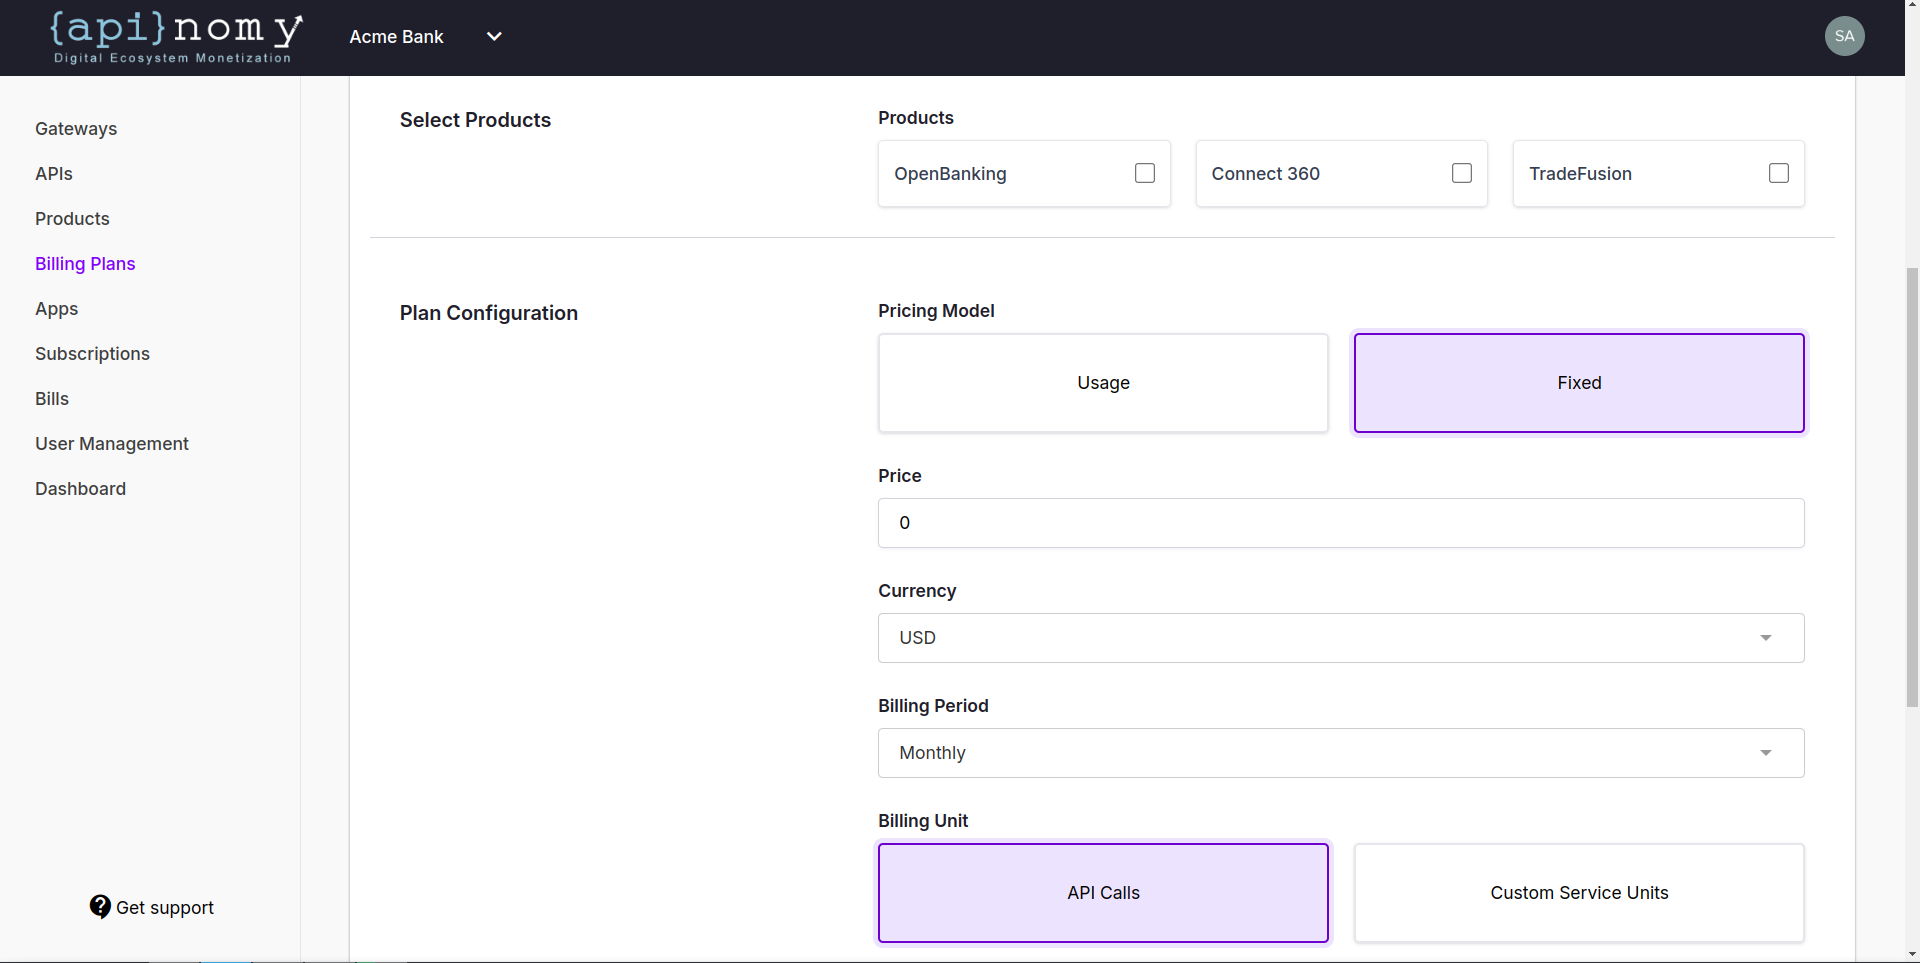
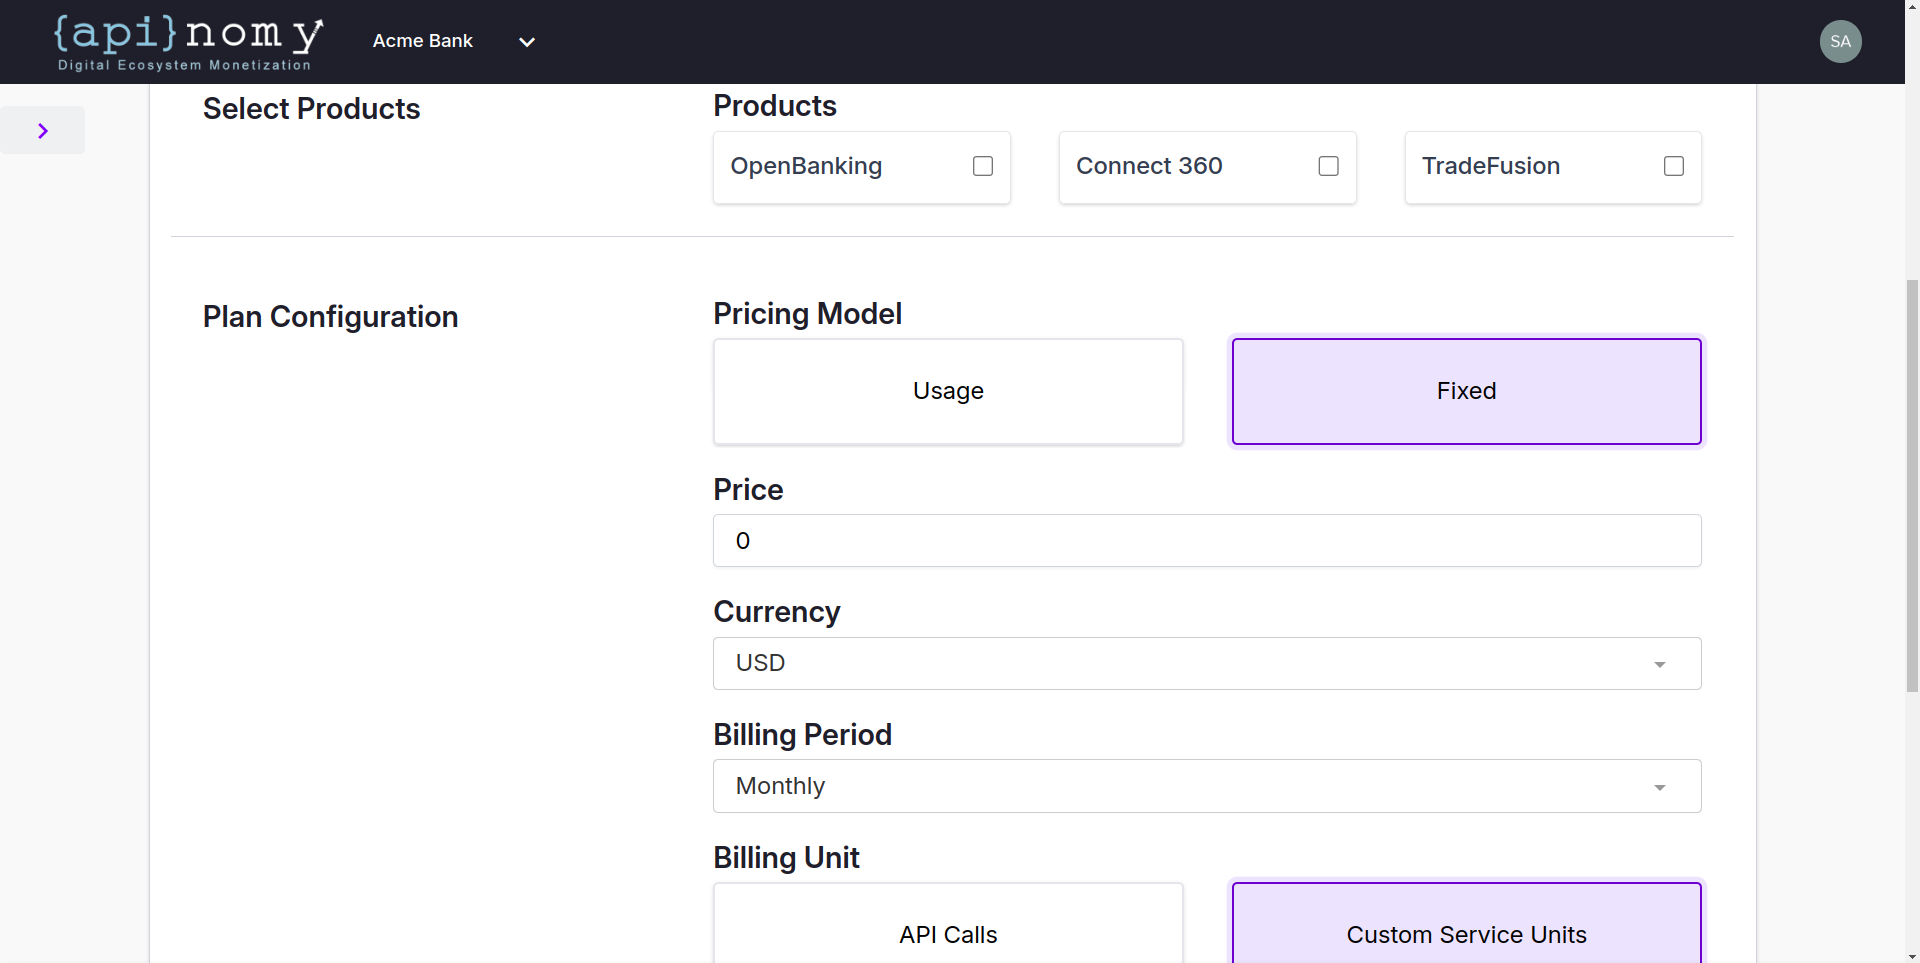
image & menu updated

diff --git a/_layouts/default.html b/_layouts/default.html
@@ -34,7 +34,7 @@
               src="{{ site.baseurl }}/images/apinomy-logo.png"
               alt="Hydra Logo"
               width="95"
-              height="56"
+              height="46"
           /></a>
         </div>
         {% include navigation.html %}
